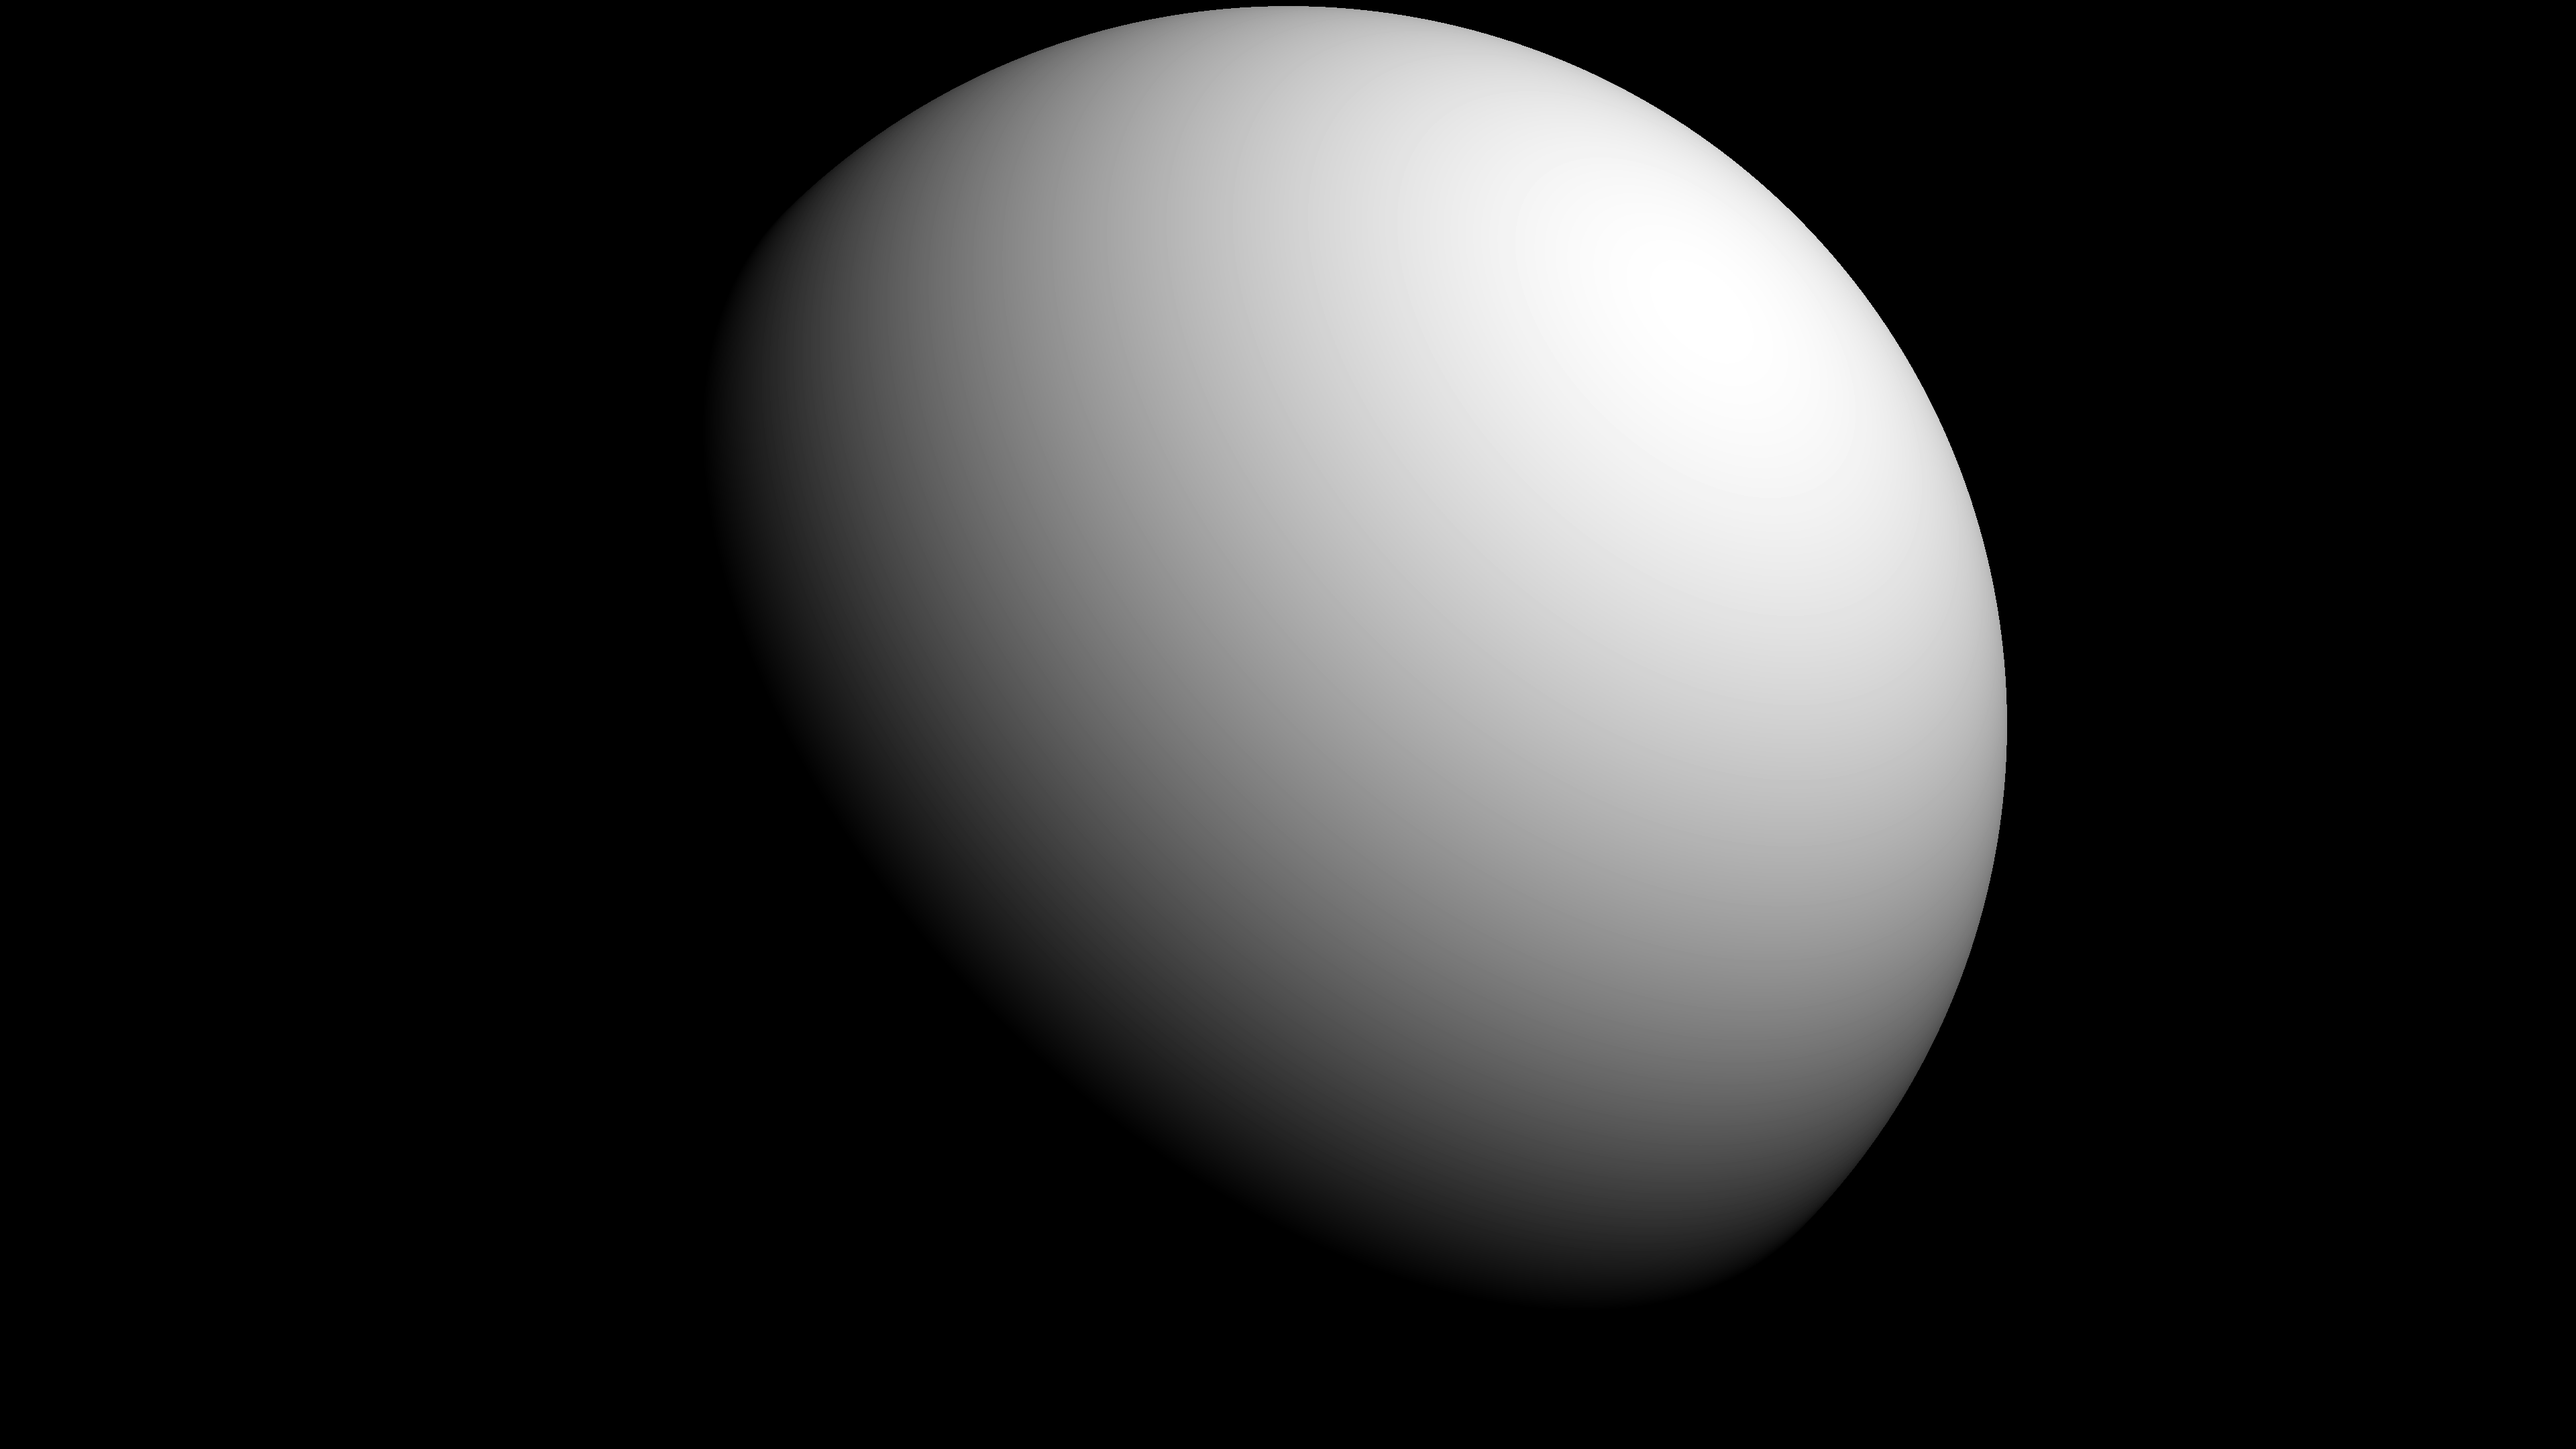
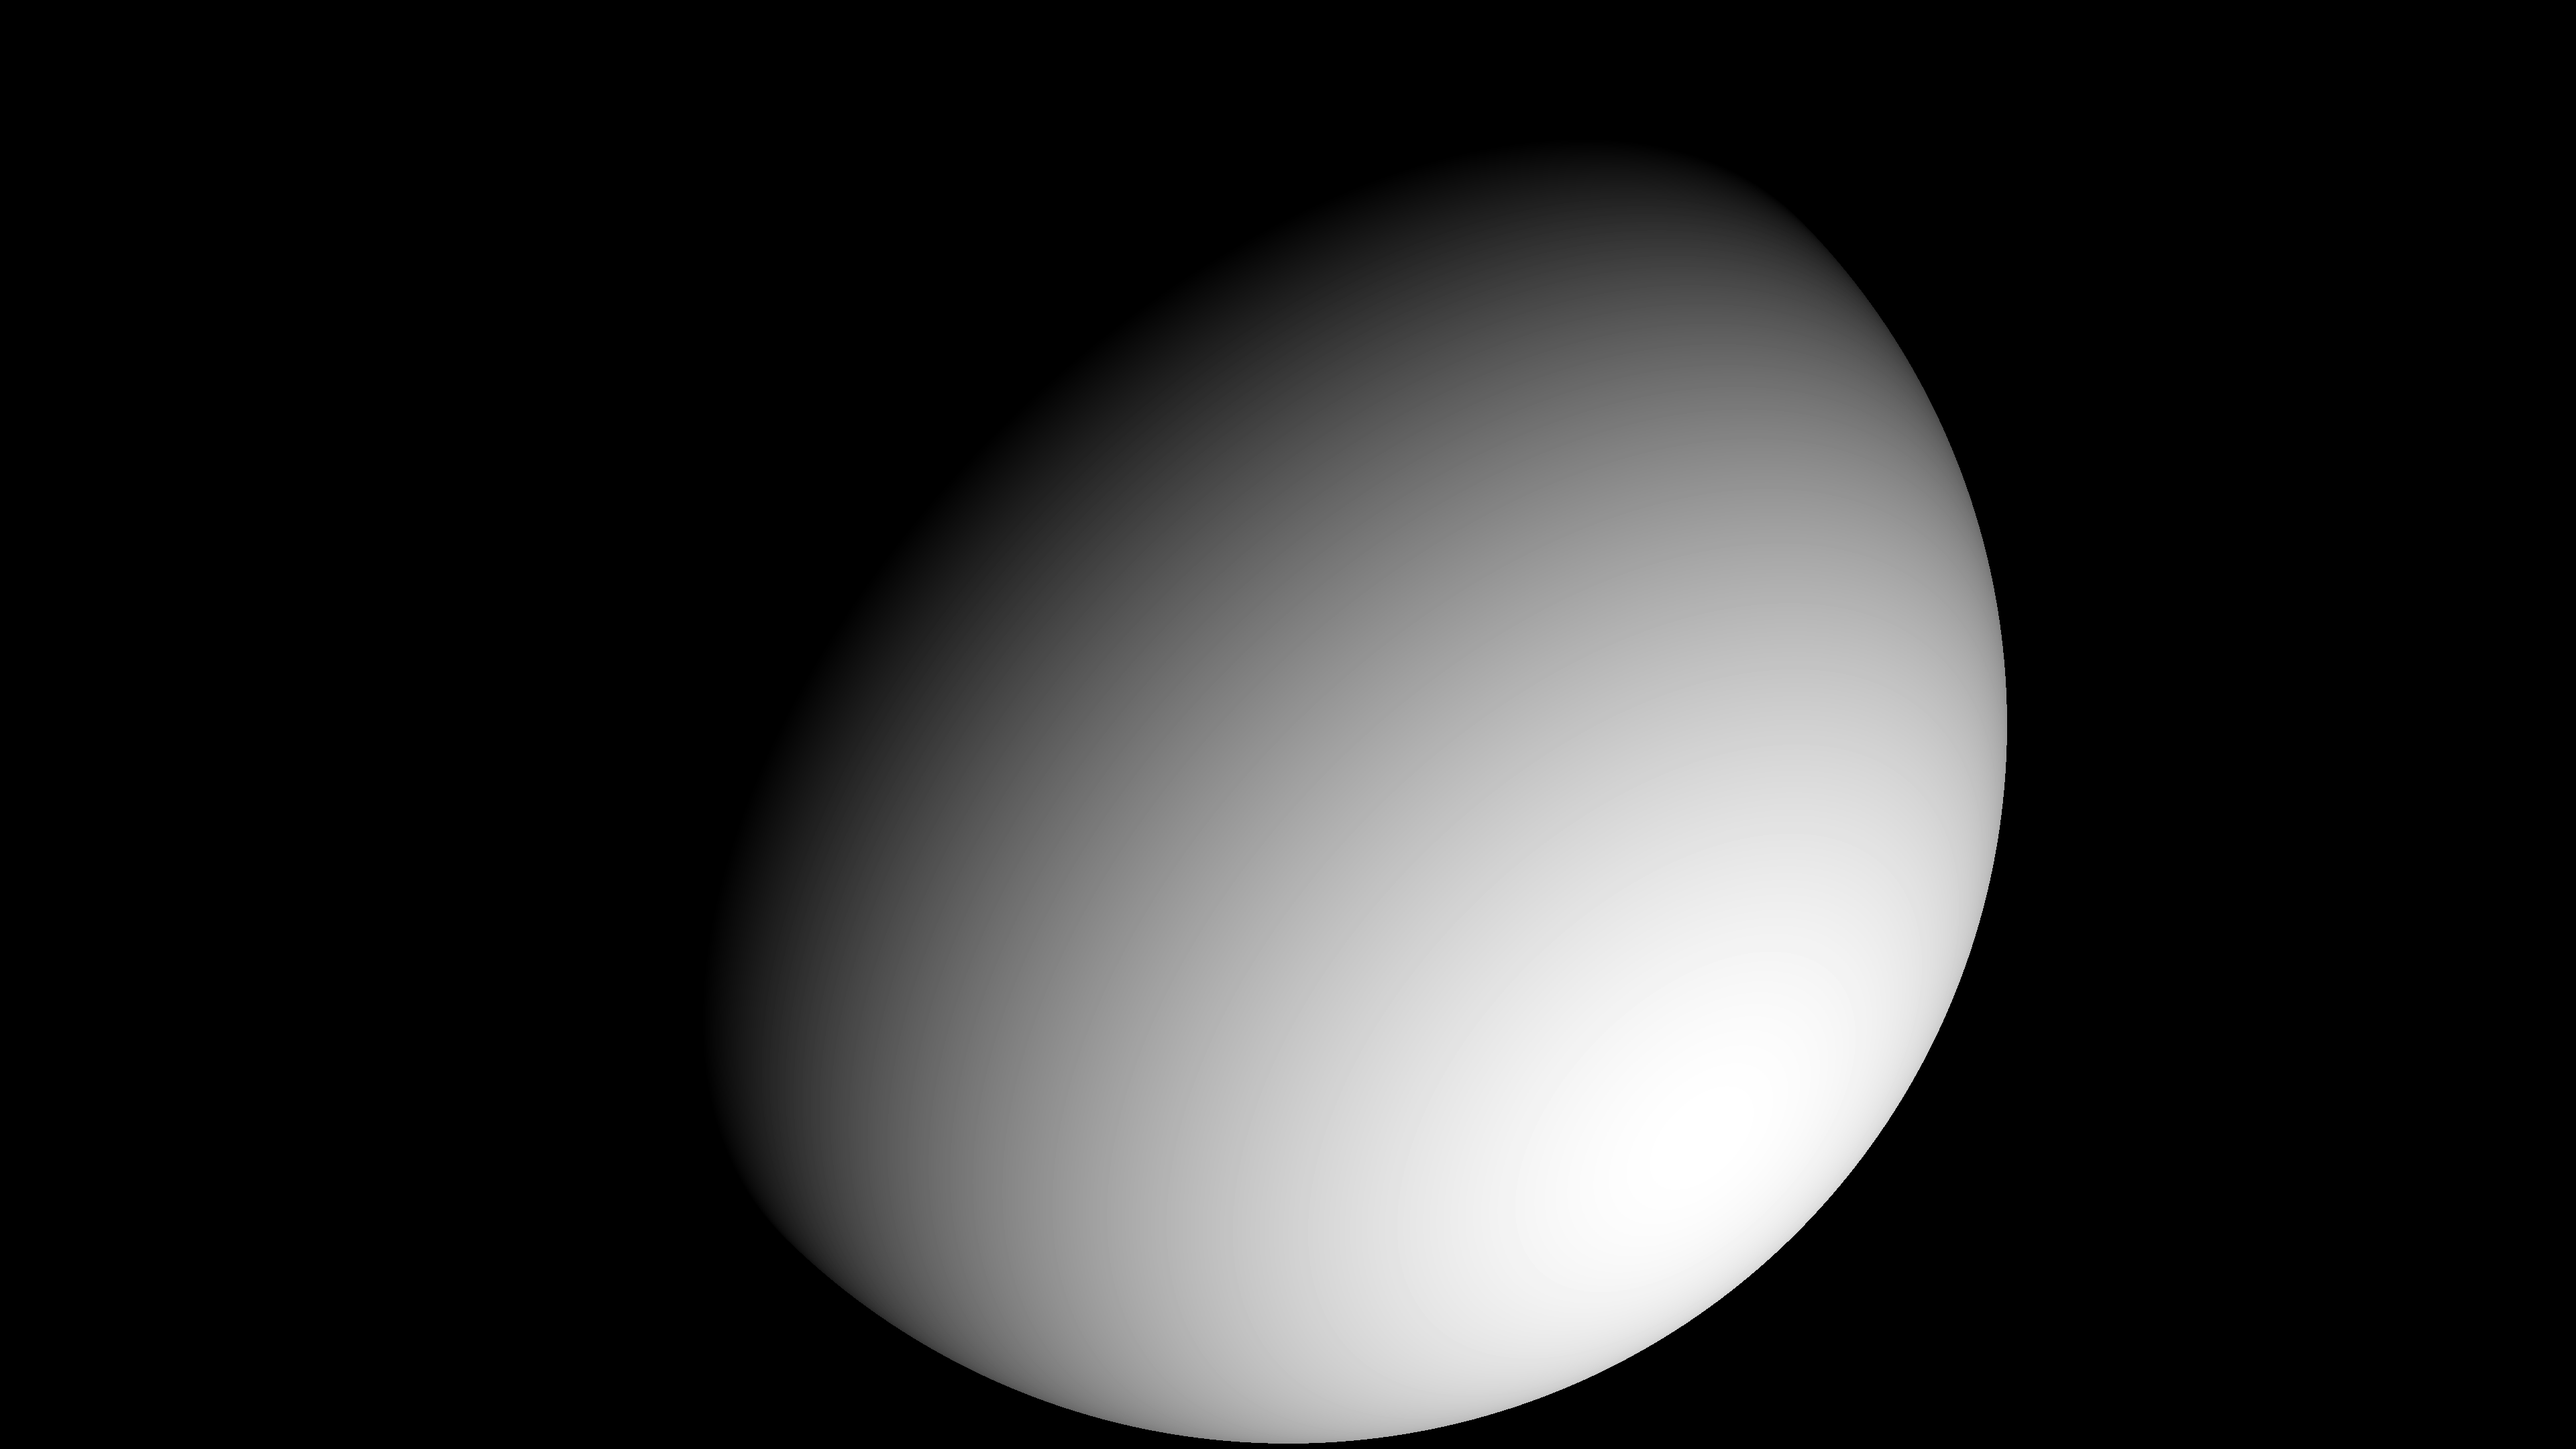
+

diff --git a/lifany_hw5/src/q1.py b/lifany_hw5/src/q1.py
@@ -60,7 +60,7 @@ def renderNDotLSphere(center, rad, light, pxSize, res):
     # plt.show()
 
     w, h = res[0], res[1]
-    XYZ = np.stack((X, Y, Z), axis=2).reshape((w * h, -1))
+    XYZ = np.stack((X, -Y, Z), axis = 2).reshape((h*w, -1))
     image = np.dot(XYZ, light).reshape((h, w))
     image = np.clip(image, 0, None)
 
@@ -96,16 +96,16 @@ def loadData(path="../data/"):
     I = []
     for i in range(1, 8):
         im_name = "input_" + str(i) + ".tif"
-        im0 = skimage.io.imread(fname = path + im_name)
-        print(im0)
-        im = skimage.color.rgb2gray(im0).flatten()
+        # preserve bit depth while reading, datatype should be uint16
+        im0 = skimage.io.imread(fname = path + im_name).astype(np.uint16)
+        # Y channel (channel 1) is the luminance
+        im = skimage.color.rgb2xyz(im0)[::1].flatten()
         I.append(im)
-        print(im)
-    I = np.array(I).astype(np.int16)
+    I = np.array(I)
 
     L = np.load(path + 'sources.npy').T
 
-    s = im0.shape
+    s = im0.shape[:2]
 
     return I, L, s
 
@@ -131,7 +131,7 @@ def estimatePseudonormalsCalibrated(I, L):
         The 3 x P matrix of pesudonormals
     """
 
-    B = None
+    B = np.linalg.lstsq(L.T, I)[0]
     # Your code here
     return B
 
@@ -226,6 +226,7 @@ def estimateShape(normals, s):
 
 
 if __name__ == "__main__":
+    '''
     # Part 1(b)
     radius = 0.75  # cm
     center = np.asarray([0, 0, 0])  # cm
@@ -252,22 +253,22 @@ if __name__ == "__main__":
     plt.imshow(image, cmap="gray")
     plt.show()
     plt.imsave("1b-c.png", image, cmap="gray")
+    '''
 
     # Part 1(c)
     I, L, s = loadData("../data/")
 
     # Part 1(d)
     # Your code here
-    print(I)
+    I, L, s = loadData()
     U, Sigma, VT = np.linalg.svd(I, full_matrices=False)
-    print(Sigma)
-    print(np.linalg.matrix_rank(I))
-
-
-    '''
+    print("1(d) Sigma: ", Sigma)
+    
 
     # Part 1(e)
     B = estimatePseudonormalsCalibrated(I, L)
+    print("1(d) estimate B using least squares, B = ", B)
+
 
     # Part 1(f)
     albedos, normals = estimateAlbedosNormals(B)
@@ -275,6 +276,8 @@ if __name__ == "__main__":
     plt.imsave("1f-a.png", albedoIm, cmap="gray")
     plt.imsave("1f-b.png", normalIm, cmap="rainbow")
 
+
+    '''
     # Part 1(i)
     surface = estimateShape(normals, s)
     plotSurface(surface)
